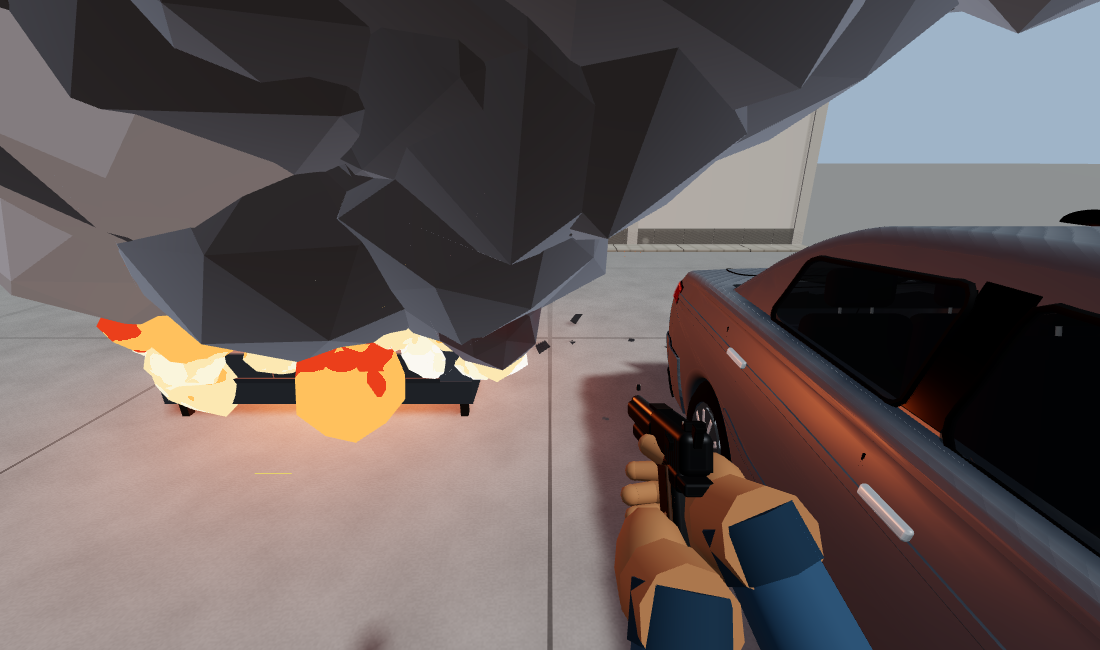
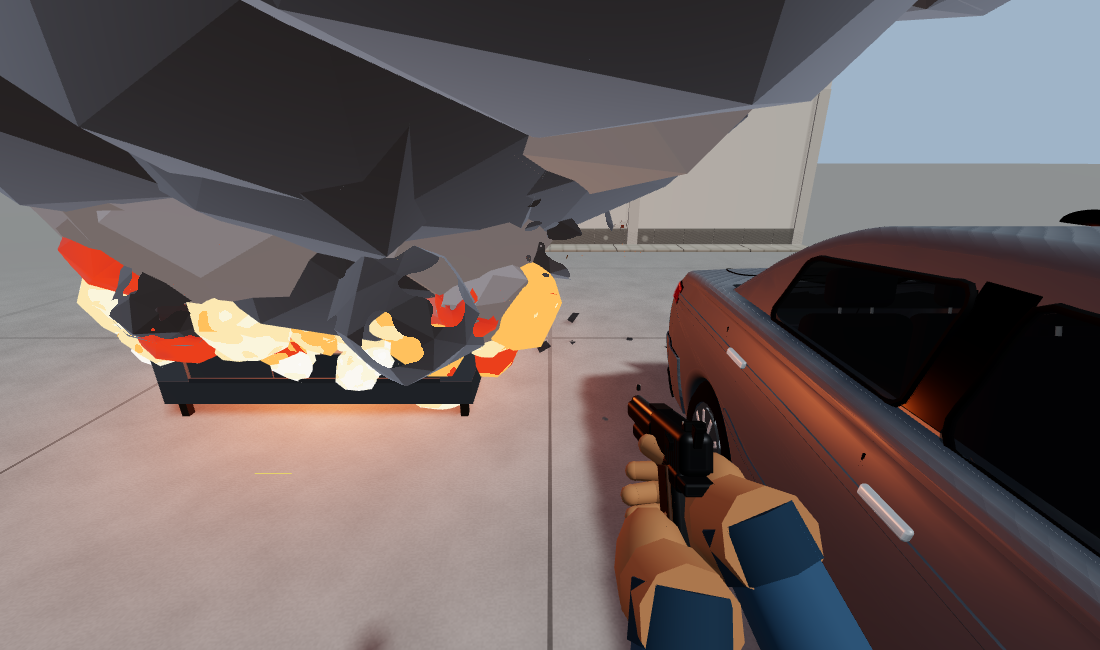
fix(destruction): an overhang that is balanced or held at its root breaks off instead of tipping the beam

Changed region(s): [[0.0, 0.0, 1.0, 0.6769], [0.8036, 0.6154, 0.8655, 0.6462]]

diff --git a/packages/game-destruction/src/world.ts b/packages/game-destruction/src/world.ts
@@ -1576,7 +1576,7 @@ export const createDestruction = (options: DestructionOptions = {}): Destruction
   }
 
   /** What a bearer does over the voids under it: settles, bridges them, breaks over one of them (`opened`), or loses its support. */
-  type Bearing = { status: 'settled' | 'bridged' | 'opened' | 'unsupported'; failed: VoidRun[]; cracks: Array<{ at: number; top: boolean }> }
+  type Bearing = { status: 'settled' | 'bridged' | 'opened' | 'unsupported'; failed: Array<VoidRun & { free?: 'start' | 'end' }>; cracks: Array<{ at: number; top: boolean }> }
 
   /**
    * A ground beam over voids (`judgeBeam`): every void, the ground between them taking the reactions, the pillars cast with it. Over a void it bridges
@@ -1600,8 +1600,10 @@ export const createDestruction = (options: DestructionOptions = {}): Destruction
       const k1 = Math.round(run.end / fp.step)
       if (!run.holds) {
         // it breaks where the ground stops on each side, and the stretch between hangs into the hole
-        failed.push(run)
-        cracks.push({ at: run.start, top: true }, { at: run.end, top: true })
+        const free = run.kind !== 'cantilever' ? undefined : run.start <= 1e-9 ? 'start' : 'end'
+        failed.push({ start: run.start, end: run.end, ...(free ? { free } : {}) })
+        if (free !== 'start') cracks.push({ at: run.start, top: true })
+        if (free !== 'end') cracks.push({ at: run.end, top: true })
         for (let k = k0; k < k1; k++) fp.slices[k]!.drop = Math.min(fp.slices[k]!.cut, run.span / 2)
         continue
       }
@@ -1677,7 +1679,7 @@ export const createDestruction = (options: DestructionOptions = {}): Destruction
    * A bearer broke over a void: what rests on it only over that stretch loses its support there (it falls); a masonry wall that runs past both edges
    * arches over the hole, and the units under the arch (a triangle at 60 degrees on the span) fall out of it.
    */
-  const openOver = (o: ObjRT, b: Bearer, fp: Footprint, failed: readonly VoidRun[], opened: JointRT[], src?: string): boolean => {
+  const openOver = (o: ObjRT, b: Bearer, fp: Footprint, failed: Bearing['failed'], opened: JointRT[], src?: string): boolean => {
     const box = aabbOf(b.p.spec.shape, b.p.pos, b.p.q)
     let lost = false
     for (const j of o.byPart.get(b.p.spec.id) ?? []) {
@@ -1698,13 +1700,16 @@ export const createDestruction = (options: DestructionOptions = {}): Destruction
         lost = true
         continue
       }
-      if (isSlender(q.spec, q.mat)) archOver(o, q, fp.long, [box.min[fp.long] + run.start, box.min[fp.long] + run.end], src)
+      if (isSlender(q.spec, q.mat)) archOver(o, q, fp.long, [box.min[fp.long] + run.start, box.min[fp.long] + run.end], run.free, src)
     }
     return lost
   }
 
-  /** The units of a wall under the relieving arch over a span (object-local, along `axis`): the triangle at 60 degrees on it falls out. */
-  const archOver = (o: ObjRT, q: PartRT, axis: number, span: [number, number], src?: string) => {
+  /**
+   * The units of a wall under the relieving arch over a span (object-local, along `axis`): the triangle at 60 degrees on it falls out. Over an overhang
+   * that broke off (`free` end) there is no arch: the wedge from the root of the overhang up at 60 degrees toward the free end falls.
+   */
+  const archOver = (o: ObjRT, q: PartRT, axis: number, span: [number, number], free: 'start' | 'end' | undefined, src?: string) => {
     const grid = gridOf(q)
     const worn = (q.rt.chips ??= {})
     const bottom = aabbOf(q.spec.shape, q.pos, q.q).min[1]
@@ -1715,7 +1720,9 @@ export const createDestruction = (options: DestructionOptions = {}): Destruction
       if (worn[i] === -1) return
       const at = toWorld(q.pos, q.q, cell.center)
       const height = at[1] - bottom
-      if (Math.abs(at[axis] - middle) <= half - height / Math.tan(ARCH_ANGLE)) out.push(i)
+      const reach = height / Math.tan(ARCH_ANGLE)
+      const under = free === 'start' ? at[axis] <= span[1] - reach : free === 'end' ? at[axis] >= span[0] + reach : Math.abs(at[axis] - middle) <= half - reach
+      if (under) out.push(i)
     })
     if (out.length === 0) return
     const centre: Vec3 = [0, bottom, 0]

diff --git a/packages/game-destruction/tests/ground-loss.test.ts b/packages/game-destruction/tests/ground-loss.test.ts
@@ -125,14 +125,18 @@ describe('ground taken away under a house', () => {
     expect(h.floating()).toEqual([])
   })
 
-  it('a big crater under a corner: the pillar and the beams over it lose their support and the corner falls, the rest stands', () => {
+  it('a big crater under a corner: the pillar there goes, the short beam tips in with its wall, the long one breaks off over the void and the masonry over it falls out; the rest stands', () => {
     const h = setUp()
     h.world.groundLoss({ x: 0, z: 0, radius: 3, depth: 2, source: 'crater' })
     runFor(h.world, 30)
-    expect(h.subsided('unsupported')).toEqual(expect.arrayContaining(['p_sw', 'gb_s', 'gb_w']))
+    expect(h.subsided('unsupported')).toEqual(expect.arrayContaining(['p_sw', 'gb_w']))
+    // 6 m beam: about 3 m overhang over the hole and as much on the ground, balanced: the overhang breaks off at the edge of the ground
+    expect(h.subsided('opened')).toEqual(['gb_s'])
+    // 4 m beam: most of it over the hole, its weight past the ground left: it tips in
     const fallen = ofType(h.events, 'collapse').flatMap((e) => e.parts)
-    expect(fallen).toEqual(expect.arrayContaining(['p_sw', 'gb_s', 'gb_w', 'w_s', 'w_w']))
-    for (const part of ['gb_n', 'gb_e', 'w_n', 'w_e', 'p_ne']) expect(h.standing()).toContain(part)
+    expect(fallen).toEqual(expect.arrayContaining(['p_sw', 'gb_w', 'w_w']))
+    expect(ofType(h.events, 'chip').map((e) => e.part)).toContain('w_s')
+    for (const part of ['gb_s', 'w_s', 'gb_n', 'gb_e', 'w_n', 'w_e', 'p_ne', 'slab']) expect(h.standing()).toContain(part)
     expect(h.floating()).toEqual([])
   })
 
@@ -261,11 +265,16 @@ describe('the structural review: load paths over a void', () => {
   const flags = (step: number, ...runs: Array<[number, number]>): boolean[] =>
     Array.from({ length: Math.round(beam.length / step) }, (_, k) => runs.some(([a, b]) => (k + 0.5) * step > a && (k + 0.5) * step < b))
 
-  it('every void is judged, not only the longest: a short span that holds and an overhang that does not tip the beam', () => {
+  it('every void is judged, not only the longest: a short span holds, an overhang breaks off or tips the beam', () => {
     const verdict = judgeBeam(flags(0.1, [3, 4], [8.2, 10]), 0.1, beam)
     expect(verdict.runs.map((r) => r.kind)).toEqual(['span', 'cantilever'])
     expect(verdict.runs[0]!.holds).toBe(true)
-    expect(verdict.tips).toBe(true)
+    // 1.8 m of overhang past the 1.5 m a 30 cm beam holds, but balanced on the 7 m of ground left: it breaks off, the beam stays
+    expect(verdict.runs[1]!.holds).toBe(false)
+    expect(verdict.tips).toBe(false)
+    // with its weight past the ground left and no pillar at its root, it takes the beam in
+    expect(judgeBeam(flags(0.1, [1, 2], [3.5, 10]), 0.1, beam).tips).toBe(true)
+    expect(judgeBeam(flags(0.1, [1, 2], [3.5, 10]), 0.1, { ...beam, pillars: [3.5] }).tips).toBe(false)
   })
 
   it('voids with less ground between them than the beam is deep, or ground that cannot take the reactions, are one span', () => {

diff --git a/packages/game-destruction/src/foundation-span.ts b/packages/game-destruction/src/foundation-span.ts
@@ -114,7 +114,8 @@ export function mergeRuns(runs: readonly VoidRun[], check: BeamCheck): VoidRun[]
  * Each void under a ground beam, judged: between supports (ground or a pillar on each side) a simply supported span, `w L² / 8`, holding while `L` is
  * at most `spanDepth` depths and the moment is within what the section resists; reaching an end with no pillar there, a cantilever, `w c² / 2`, at most
  * half that span, and only while the ground left under the beam is at least as long as the overhang (the resultant of a uniform load stays over its
- * support). A void that takes the whole beam leaves nothing to hold.
+ * support) or a pillar holds its root. A cantilever that fails breaks off at its root when the beam is balanced or held there, and tips the whole beam
+ * in when it is not. A void that takes the whole beam leaves nothing to hold.
  */
 export function judgeBeam(flags: readonly boolean[], step: number, check: BeamCheck): BeamVerdict {
   const merged = mergeRuns(voidRuns(flags, step), check)
@@ -135,10 +136,13 @@ export function judgeBeam(flags: readonly boolean[], step: number, check: BeamCh
     const cantilever = freeStart || freeEnd
     const moment = (cantilever ? (check.load * span * span) / 2 : (check.load * span * span) / 8) * check.loadFactor
     const reach = cantilever ? (check.spanDepth * check.depth) / 2 : check.spanDepth * check.depth
+    // an overhang whose weight stands past the ground left, with no pillar at its root, takes the beam over with it
     const balanced = !cantilever || span <= ground
-    const holds = span <= reach && moment <= check.resists && balanced
+    const rooted = cantilever && pillarNear(check.pillars, freeStart ? run.end : run.start)
+    const holds = span <= reach && moment <= check.resists && (balanced || rooted)
     verdicts.push({ ...run, kind: cantilever ? 'cantilever' : 'span', span, moment, holds, cracks: moment > check.cracking })
-    if (cantilever && !holds) tips = true
+    // one that is balanced or held at its root breaks off there instead: the overhang goes, the beam stays
+    if (cantilever && !holds && !balanced && !rooted) tips = true
   }
   return { runs: verdicts, tips }
 }
